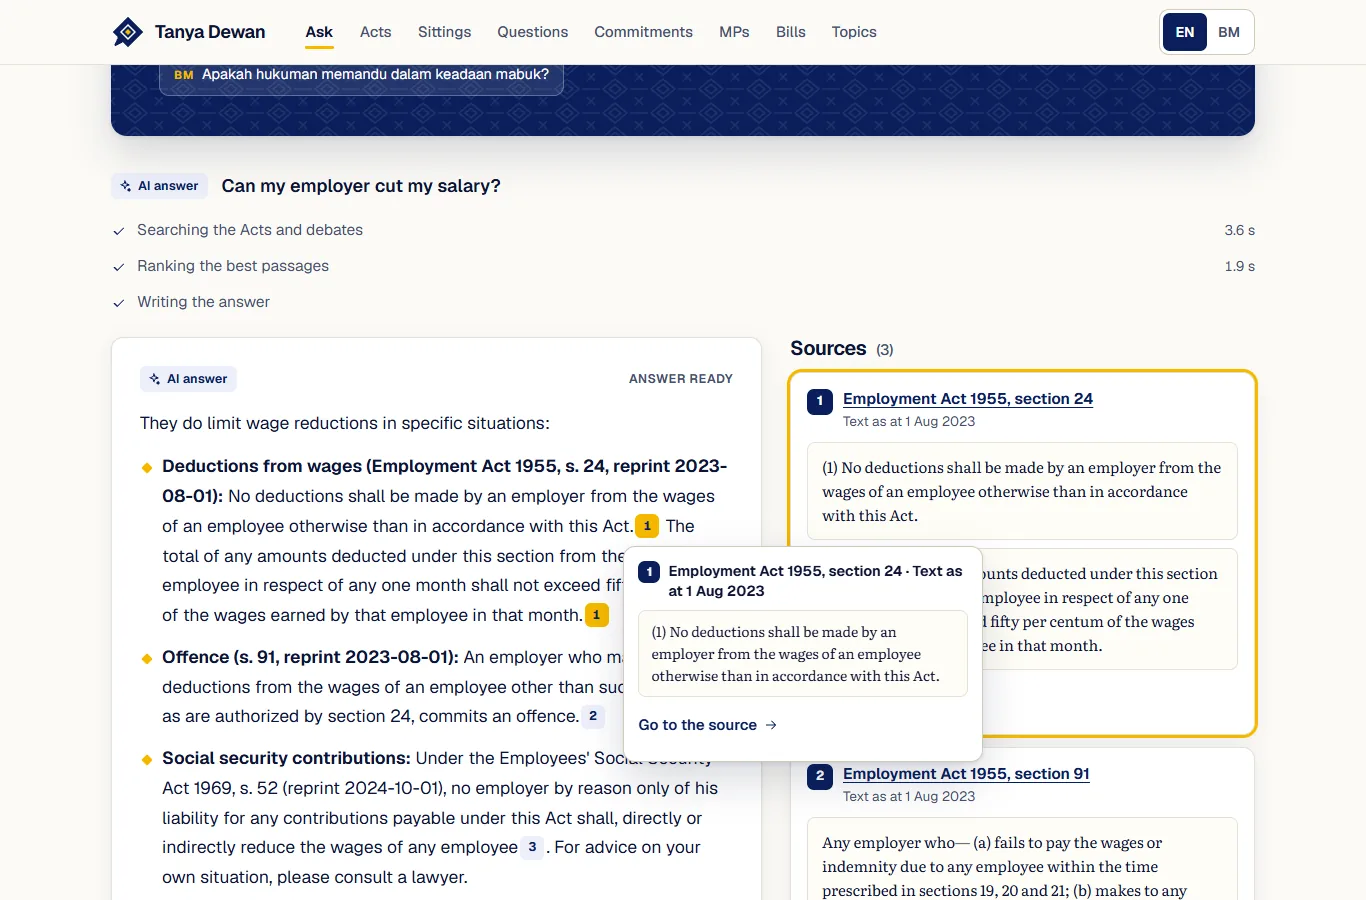
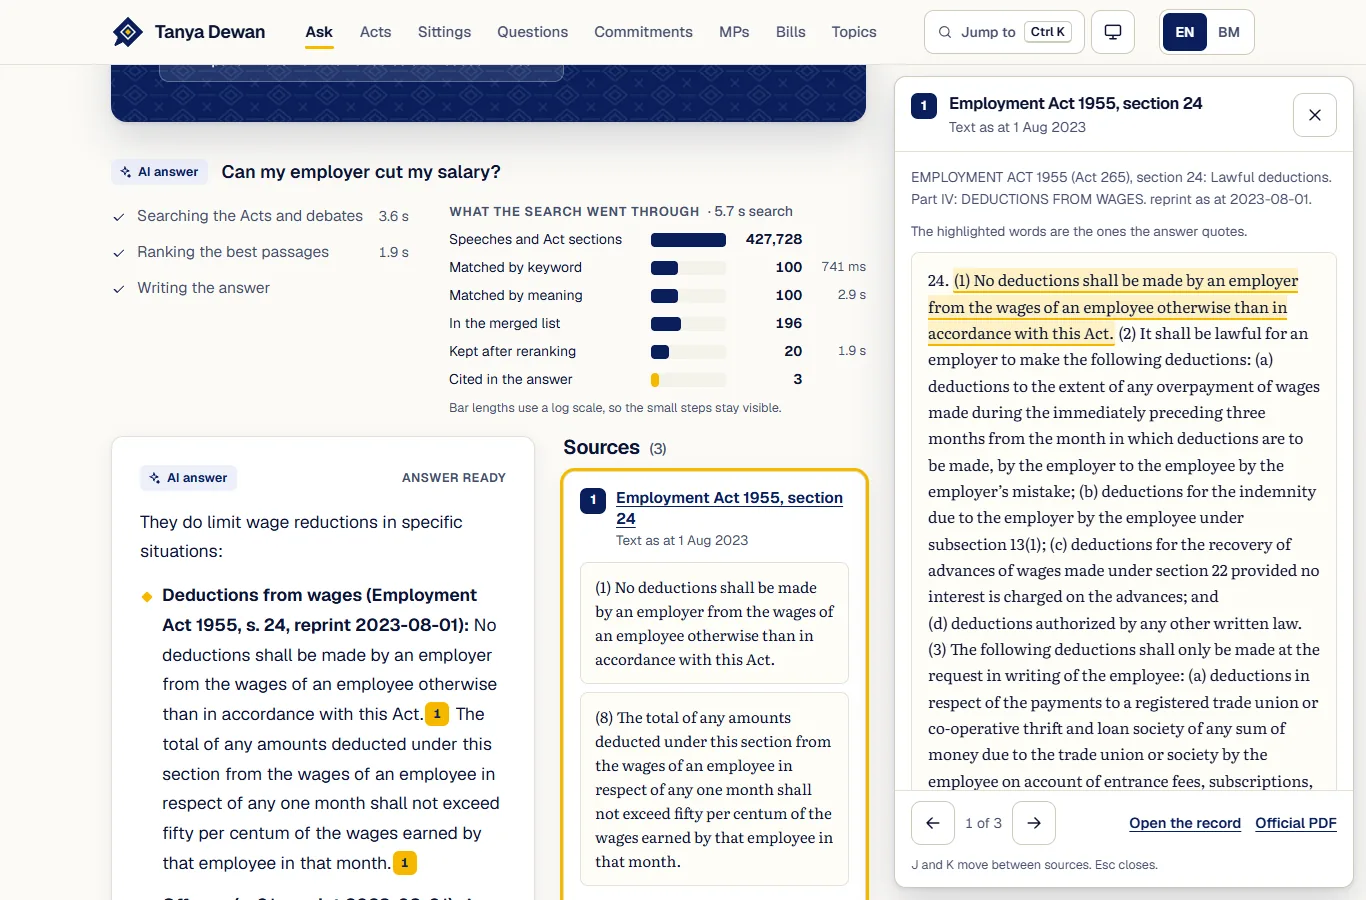
docs: phase 8 done, README shows the reader, the search and the debate strip

Changed region(s): [[0.0615, 0.0311, 1.0, 1.0], [0.9839, 0.1556, 1.0, 0.1867], [0.123, 0.4044, 0.1537, 0.4356]]

diff --git a/README.md b/README.md
@@ -17,10 +17,17 @@ It reads two public records:
   2026), with its Special Chamber: 361,676 speeches, each with its speaker, seat, party on the
   day, time and page.
 
-An answer quotes the Act and section, or the sitting, date, speaker and page. Hover a citation to
-read the source text; click it to open the record.
+An answer quotes the Act and section, or the sitting, date, speaker and page. Click a citation to
+read the whole passage beside the answer, with the quoted words marked; J and K step through the
+sources.
 
-![An answer about salary deductions: each claim carries a numbered citation, and the cited section of the Employment Act opens in a preview](docs/readme/answer.webp)
+![An answer about salary deductions: each claim carries a numbered citation, and the cited section of the Employment Act opens beside it with the quoted words marked](docs/readme/answer.webp)
+
+While the model writes, the page shows what the search went through: how many passages each
+step kept, with its time, and the passages found. A fold shows the raw server-sent events as they
+arrive.
+
+![The search at work: the steps with their times, a chart of how many passages each step kept, and the passages found before the answer is written](docs/readme/search.webp)
 
 ## What it does that a keyword search does not
 
@@ -32,7 +39,14 @@ read the source text; click it to open the record.
   questions joined to the minister's answer, 18,523 ministers' commitments (each with a quote that
   code checks against the Hansard text), topic and entity tags, and a summary in both languages.
 - **A page for every MP, bill and topic.** An MP page shows their activity by month, their party
-  history with dates, the offices they held and their commitments.
+  history with dates, the offices they held, their commitments and their seat in the chamber.
+- **Shows a debate at a glance.** A strip at the top of a debate page shows every speech in order,
+  its length and the speaker's coalition. The home page draws the 15th Parliament seat by seat,
+  and the topics page charts debates a month on the six biggest topics, 2018 to 2026.
+- **Gets you anywhere fast.** Ctrl K jumps to any MP, Act, bill, topic or sitting; `?` lists the
+  keys. Light and dark themes follow the device or a switch in the header.
+
+![A debate page: a strip of every speech in order, coloured by coalition, above the summary](docs/readme/debate.webp)
 
 ![An MP page: debates spoken in, questions answered, a month-by-year activity grid and party history](docs/readme/mp.webp)
 

diff --git a/PROGRESS.md b/PROGRESS.md
@@ -4,6 +4,9 @@ Current state and what is owed. `ROADMAP.md` is the plan; `docs/sources.md` is t
 
 ## Decisions the owner has made
 
+- The code stays public under MIT (2026-11-27). The value is the built data and its upkeep,
+  not the code; a future paid part would live in a private repo.
+- No money figures in the repo, its demo or its history (2026-11-27).
 - The project is a public portfolio piece with a free static demo; there is no paid tier
   (2026-11-27; the evidence is in ROADMAP, "Why there is no paid tier"). The repository is
   `tanya-dewan` on GitHub.
@@ -379,6 +382,30 @@ the personal site has a card for it. To refresh the demo: `tools/static_demo.py`
   the Malay home page.
 - Tests: 136 pass, including `tests/test_static_demo.py` (link rewriting and the checker) and
   `tests/test_config.py` (`ANTHROPIC_API_KEY` before the key file).
+
+## Phase 8: the seven upgrades
+
+The owner picked all seven upgrades on the mockup page (2026-11-27; mockups in
+`docs/design/enhancements/`, untracked). Each item is done when it works on the live site and in
+the static demo, in English and Malay, light and dark, at desktop and 390 px.
+
+- [x] 1. Watch it search: a live funnel on the ask page; the server sends a `passages` event
+  when ranking ends; a fold shows the raw events. The demo makes the `passages` event from the
+  recording.
+- [x] 2. Citation reader: a citation mark opens the whole passage beside the answer, quotes
+  marked; J, K and Esc.
+- [x] 3. Jump to anything: Ctrl K on every page; `/jump.json` index (MPs, Acts, bills, topics,
+  sittings); the demo writes its own index of the pages it holds.
+- [x] 4. Seat map: the 15th Parliament in a half circle on the home page, the MP page and the
+  debate page.
+- [x] 5. Debate timeline: speeches in lanes at the top of a debate page; coalition lanes in the
+  15th Parliament, lanes of the five parties that spoke most before it.
+- [x] 6. Topic explorer: monthly lines on the topics page, zoom, events marked; a month links
+  to the topic's debates that month.
+- [x] 7. How it works page, a light and dark switch, page transitions, a `?` list of keys.
+- [x] Tests (144 pass), demo rebuilt (666 pages, 0 broken links), README text and shots, page
+  shots checked at 1828 and 390 px, light and dark, English and Malay.
+- [ ] Commit, push and deploy the demo to gh-pages: waits for the owner.
 
 ## Phase 3 model: Haiku 5.5 with adaptive thinking
 
